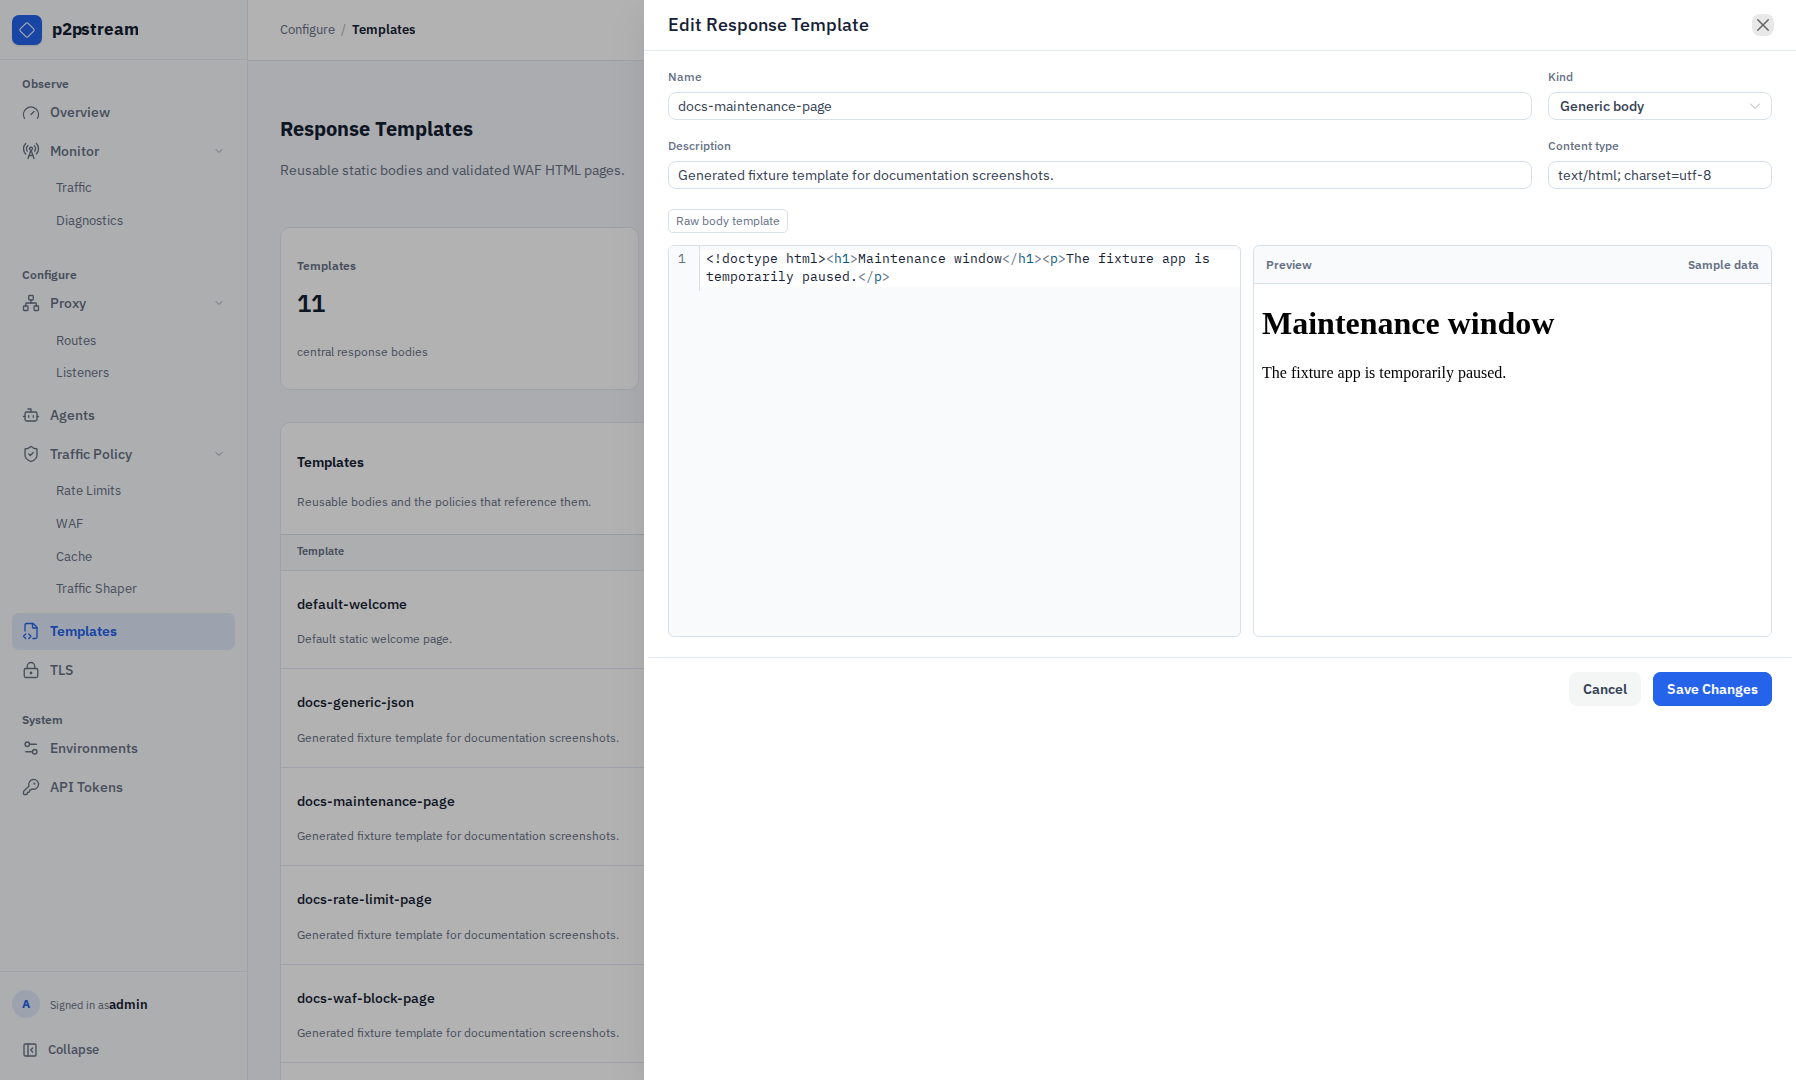
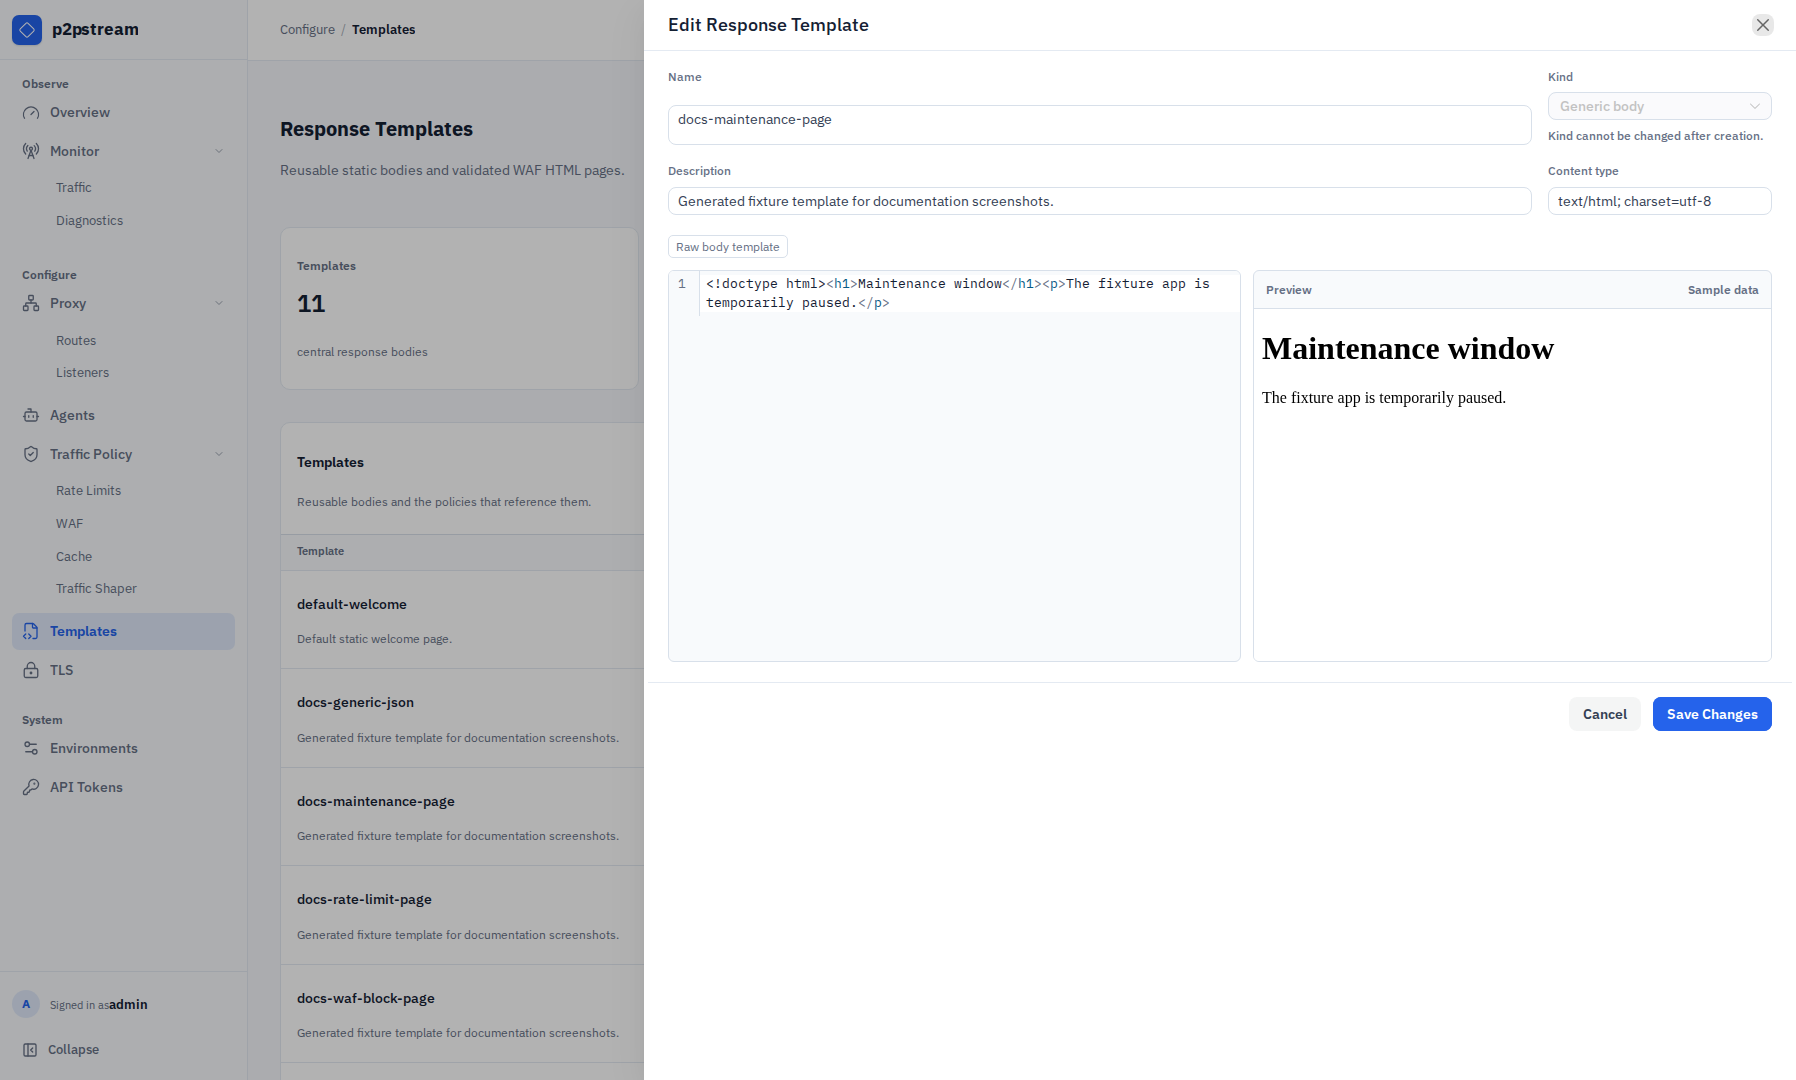
fix(ui): align trust and template safeguards

diff --git a/web/management/src/views/SettingsEnvironments.vue b/web/management/src/views/SettingsEnvironments.vue
@@ -747,7 +747,7 @@ function handleTrustModalUpdate(show: boolean) {
             <div class="layout-grid space-2xs">
               <p class="copy-xs weight-medium label-case letter-wide muted-text">SHA-256 Fingerprint</p>
               <code
-                class="flow-box max-full clip-text round-md framed frame-standard panel-bg pad-x-md pad-y-sm mono-text copy-xs label-case letter-wide base-text"
+                class="flow-box max-full wrap-anywhere round-md framed frame-standard panel-bg pad-x-md pad-y-sm mono-text copy-xs line-relaxed label-case letter-wide base-text"
                 :title="certificateTrustFingerprint"
               >
                 {{ formatFullFingerprint(certificateTrustFingerprint) }}

diff --git a/web/management/src/components/editors/PublicResponseTemplateEditorModal.vue b/web/management/src/components/editors/PublicResponseTemplateEditorModal.vue
@@ -195,8 +195,10 @@ defineExpose({ openCreate, openEdit, close });
             accessible-label="Response template kind"
             size="small"
             :options="kindOptions"
+            :disabled="Boolean(form.id)"
             @update:value="applyKind(Number($event) as PublicResponseTemplateKind)"
           />
+          <span v-if="form.id" class="normal-text letter-normal">Kind cannot be changed after creation.</span>
         </label>
         <label class="layout-grid space-xs copy-xs weight-medium label-case letter-wide muted-text">
           Description
